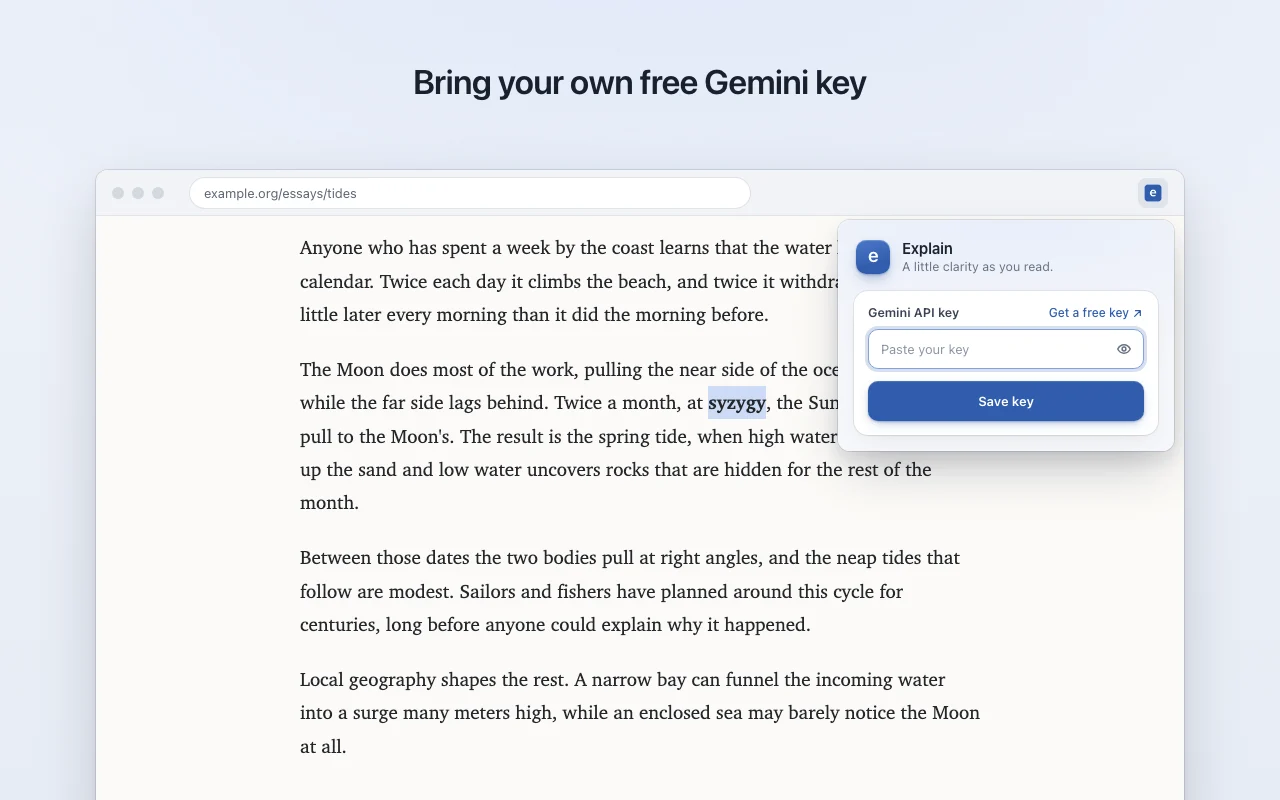
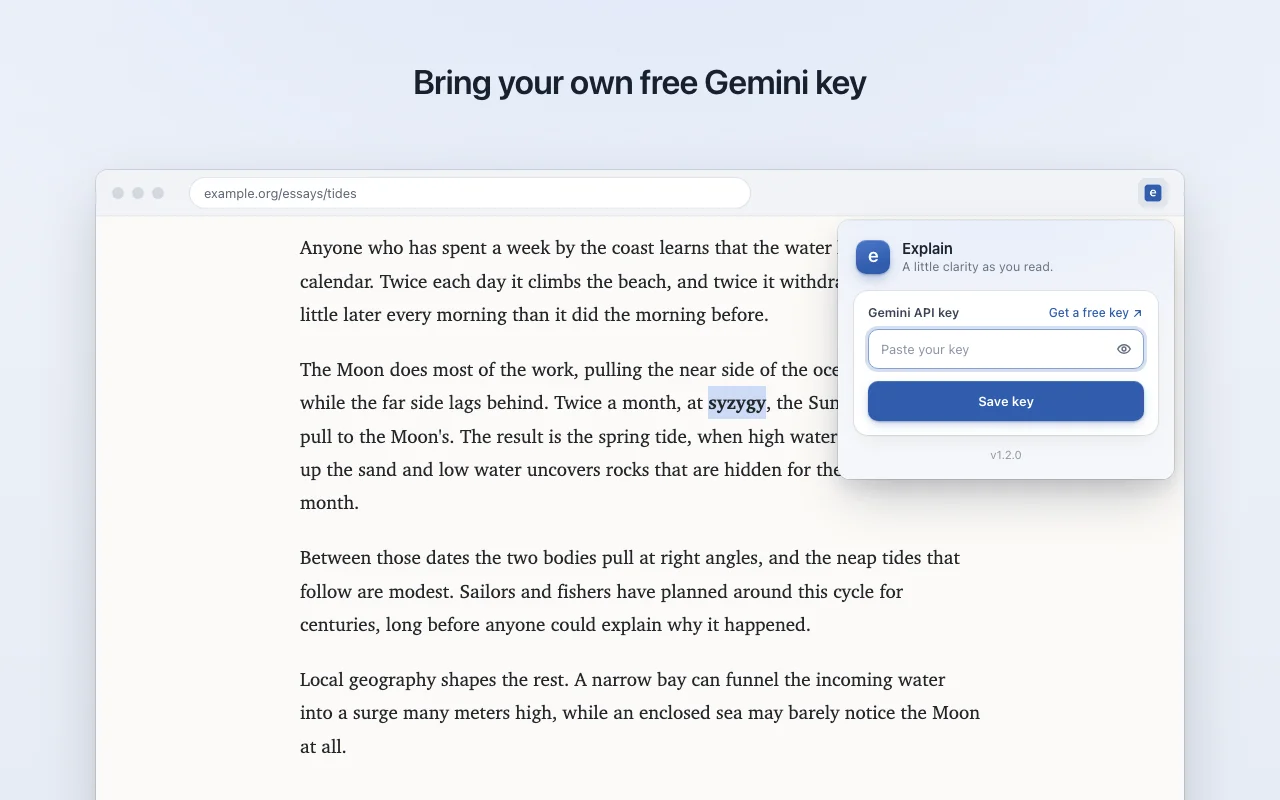
Popup: check GitHub releases for updates in unpacked installs; release 1.2.0
Ported from Babil: a 6-hour cached check of releases/latest, an update notice with Download zip, Reload Explain and What's new, and a version line with Check for updates. Only runs when installType is development, so store installs never call GitHub. CSP allows api.github.com; privacy, README, site and store notes updated.

Changed region(s): [[0.6562, 0.5625, 0.9375, 0.625]]

diff --git a/extension/popup.js b/extension/popup.js
@@ -10,6 +10,10 @@ const cancel = document.querySelector("#cancel");
 const status = document.querySelector("#status");
 const keyError = document.querySelector("#key-error");
 const toggleKey = document.querySelector("#toggle-key");
+const update = document.querySelector("#update");
+const checkUpdate = document.querySelector("#check-update");
+const manifest = api.runtime.getManifest();
+const RELEASES = "https://github.com/canmenzo/explain/releases";
 
 function showStatus(message, state = "") {
   status.textContent = message;
@@ -99,3 +103,56 @@ form.addEventListener("submit", async (event) => {
     form.removeAttribute("aria-busy");
   }
 });
+
+// Copies loaded from the GitHub zip never update on their own, so the popup checks GitHub releases.
+// Store installs update through the store and skip this.
+function newer(a, b) {
+  const [x, y] = [a, b].map((value) => value.split(".").map(Number));
+  for (let i = 0; i < 3; i++) if ((x[i] || 0) !== (y[i] || 0)) return (x[i] || 0) > (y[i] || 0);
+  return false;
+}
+
+async function findUpdate(force) {
+  let { release } = await api.storage.local.get("release");
+  if (force || !release || Date.now() - release.checked > 6 * 3600e3) {
+    const response = await fetch("https://api.github.com/repos/canmenzo/explain/releases/latest");
+    if (!response.ok) throw new Error(`GitHub ${response.status}`);
+    const latest = await response.json();
+    const zip = `explain-${manifest.browser_specific_settings ? "firefox" : "chrome"}.zip`;
+    release = {
+      checked: Date.now(),
+      version: latest.tag_name.replace(/^v/, ""),
+      zip: latest.assets.find((asset) => asset.name === zip)?.browser_download_url ?? latest.html_url,
+      notes: latest.html_url,
+    };
+    await api.storage.local.set({ release });
+  }
+  const available = newer(release.version, manifest.version);
+  update.hidden = !available;
+  if (available) {
+    const safe = (url) => (typeof url === "string" && url.startsWith("https://github.com/") ? url : RELEASES);
+    document.querySelector("#update-title").textContent = `Version ${release.version} is available`;
+    document.querySelector("#update-zip").href = safe(release.zip);
+    document.querySelector("#update-notes").href = safe(release.notes);
+  }
+  return available;
+}
+
+document.querySelector("#version").textContent = `v${manifest.version}`;
+document.querySelector("#update-reload").addEventListener("click", () => api.runtime.reload());
+
+checkUpdate.addEventListener("click", async (event) => {
+  event.preventDefault();
+  checkUpdate.textContent = "Checking…";
+  try {
+    checkUpdate.textContent = (await findUpdate(true)) ? "Update available" : "You're up to date";
+  } catch {
+    checkUpdate.textContent = "Could not check";
+  }
+});
+
+api.management?.getSelf?.().then((self) => {
+  if (self.installType !== "development") return;
+  document.querySelector("#update-check").hidden = false;
+  return findUpdate(false);
+}).catch(() => {});

diff --git a/docs/privacy.html b/docs/privacy.html
@@ -37,7 +37,7 @@
 <main id="main" class="doc">
 <p class="eyebrow">Privacy</p>
 <h1>Privacy policy</h1>
-<p class="meta">Effective October 22, 2026. This policy covers the Explain browser extension.</p>
+<p class="meta">Effective October 23, 2026. This policy covers the Explain browser extension.</p>
 
 <p>Explain has no servers of its own. It does not collect analytics, telemetry or usage data, and it does not sell or share your data with anyone.</p>
 
@@ -47,13 +47,16 @@
 <li>the text you selected (up to 12,000 characters);</li>
 <li>the nearby text from the paragraph, list item, heading or table cell that contains the selection (up to 5,000 characters);</li>
 <li>the page title (up to 300 characters);</li>
-<li>the name of the Gemini model Explain uses (Gemini 3.8 Flash);</li>
+<li>the name of the Gemini model Explain uses (Gemini 3.8 Flash, or Gemini 3.6 Flash for single words and short phrases);</li>
 <li>your Gemini API key, which authenticates the request.</li>
 </ul>
 <p>Explain does not send the page address, the page's HTML, or anything from pages where you have not chosen Explain.</p>
 
+<h2>Update checks</h2>
+<p>Copies installed from the GitHub zip, not from a browser store, ask GitHub (<code>api.github.com</code>) for the latest release when you open the popup, at most every six hours, or when you choose <strong>Check for updates</strong>. That request carries no selection, page data or key. Store installs update through the store and never make it.</p>
+
 <h2>What Explain stores</h2>
-<p>Your API key is kept in the browser's extension local storage (<code>chrome.storage.local</code>) on this device. It is not synced and is deleted when you remove Explain. Explain stores nothing else: selections and explanations are shown on the page and discarded.</p>
+<p>Your API key is kept in the browser's extension local storage (<code>chrome.storage.local</code>) on this device. It is not synced and is deleted when you remove Explain. Copies installed from the GitHub zip also keep the result of the last update check there (the latest version number, its download link and when it was checked). Selections and explanations are shown on the page and discarded.</p>
 
 <h2>Permissions</h2>
 <ul>
@@ -61,6 +64,7 @@
 <li><code>activeTab</code> and <code>scripting</code>: show the explanation card on the current tab, only after you choose Explain from that menu.</li>
 <li><code>storage</code>: keep your API key on this device.</li>
 <li>Access to <code>generativelanguage.googleapis.com</code>: send Explain requests to Google Gemini.</li>
+<li><code>api.github.com</code> (allowed in the extension's content security policy, not a permission): check for a new release in copies installed from the GitHub zip.</li>
 </ul>
 
 <h2>Google's terms</h2>

diff --git a/docs/index.html b/docs/index.html
@@ -111,6 +111,7 @@
 <li><strong>Load unpacked</strong><span>Click <strong>Load unpacked</strong> and choose the unzipped folder.</span></li>
 <li><strong>Add your key</strong><span>Click the Explain icon, then <strong>Get a free key</strong>. Paste it and click <strong>Save key</strong>.</span></li>
 </ol>
+<div class="note rv"><strong>Updating.</strong> The popup tells you when a new release is out. Download the new zip, unzip it over your Explain folder and click <strong>Reload Explain</strong>. Your key is kept.</div>
 <div class="note rv"><strong>Firefox 140+.</strong> Unzip <code>explain-firefox.zip</code>, open <code>about:debugging#/runtime/this-firefox</code>, click <strong>Load Temporary Add-on</strong> and pick <code>manifest.json</code>. Firefox removes it on restart.</div>
 
 </section>
@@ -123,7 +124,7 @@
 <details class="rv"><summary>Where is my key kept?</summary><p>In the extension's local storage in this browser. It is not synced, and removing Explain deletes it.</p></details>
 <details class="rv"><summary>What if I choose Explain before adding a key?</summary><p>The card asks for a key and the key popup opens where the browser allows it.</p></details>
 <details class="rv"><summary>Which browsers are supported?</summary><p>Chrome, and Firefox 140 or newer, on desktop.</p></details>
-<details class="rv"><summary>Which model writes the answers?</summary><p>Gemini 3.8 Flash, without Google Search.</p></details>
+<details class="rv"><summary>Which model writes the answers?</summary><p>Gemini 3.8 Flash for passages and Gemini 3.6 Flash for single words and short phrases, without Google Search.</p></details>
 <details class="rv"><summary>Can it read every page I visit?</summary><p>No. It only gets access to the current tab when you choose Explain.</p></details>
 <details class="rv"><summary>Is it in the Chrome Web Store?</summary><p>Not yet. Install it from the GitHub release for now.</p></details>
 </section>

diff --git a/extension/popup.css b/extension/popup.css
@@ -142,6 +142,32 @@ form[aria-busy="true"] .spinner { display: block; }
 .secondary { flex: 0 0 auto !important; padding: 0 16px; background: #fff; color: var(--ink-2); box-shadow: 0 0 0 1px rgba(15, 23, 42, .12); }
 .secondary:hover { background: #f4f6f9; }
 
+.update { margin-bottom: 10px; }
+.update + .panel { margin-top: 0; }
+.update .label-row { margin-bottom: 4px; }
+.update p { color: var(--muted); font-size: 12px; line-height: 16px; }
+.update-actions { display: flex; gap: 8px; margin-top: 12px; }
+.update-actions > * { flex: 1; height: 36px; border-radius: 10px; font-size: 12.5px; font-weight: 600; }
+.download {
+  display: inline-flex;
+  align-items: center;
+  justify-content: center;
+  background: var(--blue);
+  color: #fff;
+  text-decoration: none;
+  box-shadow: inset 0 1px 0 rgba(255, 255, 255, .14), 0 1px 2px rgba(23, 50, 104, .3), 0 4px 12px -4px rgba(49, 93, 173, .5);
+  transition: background-color 150ms var(--ease);
+}
+.download:hover { background: var(--blue-hover); }
+.download:focus-visible { box-shadow: 0 0 0 2px #fff, 0 0 0 4px rgba(49, 93, 173, .45); }
+.reload { background: #fff; color: var(--ink-2); box-shadow: 0 0 0 1px rgba(15, 23, 42, .12); }
+.reload:hover { background: #f4f6f9; }
+.reload:active:not(:disabled) { transform: scale(.98); }
+
+.version { margin: 12px 2px 0; color: var(--faint); font-size: 11.5px; line-height: 16px; text-align: center; }
+.version a { border-radius: 4px; color: inherit; text-decoration: none; }
+.version a:hover { color: var(--ink-2); text-decoration: underline; }
+
 #status:empty { display: none; }
 #status { margin: 10px 0 0; border-radius: 10px; padding: 8px 12px; background: var(--red-soft); color: var(--red); font-size: 12px; line-height: 16px; }
 /* Success is shown by the ready panel itself; the text is kept for screen readers. */

diff --git a/extension/popup.html b/extension/popup.html
@@ -16,6 +16,17 @@
           <p>A little clarity as you read.</p>
         </div>
       </header>
+      <section id="update" class="panel update" aria-labelledby="update-title" hidden>
+        <div class="label-row">
+          <h2 id="update-title"></h2>
+          <a id="update-notes" class="help" target="_blank" rel="noreferrer">What's new<svg viewBox="0 0 16 16" aria-hidden="true"><path d="M5.5 4.5h6v6M11.25 4.75 4.5 11.5"/></svg></a>
+        </div>
+        <p>Download the zip, unzip it over your Explain folder, then reload. Your key is kept.</p>
+        <div class="update-actions">
+          <a id="update-zip" class="download" target="_blank" rel="noreferrer">Download zip</a>
+          <button id="update-reload" class="reload" type="button">Reload Explain</button>
+        </div>
+      </section>
       <section id="ready" class="panel ready" aria-labelledby="ready-title" hidden>
         <div class="ready-head">
           <span class="check" aria-hidden="true"><svg viewBox="0 0 16 16"><path d="m4.5 8.25 2.25 2.25 4.75-5"/></svg></span>
@@ -45,6 +56,7 @@
         </div>
       </form>
       <p id="status" role="status" aria-live="polite"></p>
+      <p class="version"><span id="version"></span><span id="update-check" hidden> · <a href="#" id="check-update">Check for updates</a></span></p>
     </main>
   </body>
 </html>

diff --git a/tests/browser_test.py b/tests/browser_test.py
@@ -255,13 +255,19 @@ async def popup_fixture(browser_type):
             await route.fulfill(path=str(ROOT / "extension" / route.request.url.rsplit("/", 1)[-1]))
         await page.route("http://popup.test/*", serve)
         await page.add_init_script("""window.pending=[];window.chrome={storage:{local:{get:async()=>({}),set:async()=>{}}},
-          runtime:{sendMessage:message=>new Promise((resolve,reject)=>window.pending.push({message,resolve,reject}))}};""")
+          runtime:{getManifest:()=>({version:"1.1.0"}),reload:()=>{window.reloaded=true;},
+            sendMessage:message=>new Promise((resolve,reject)=>window.pending.push({message,resolve,reject}))},
+          management:{getSelf:async()=>({installType:"development"})}};""")
+        release = {"tag_name": "v1.1.0", "html_url": "https://github.com/canmenzo/explain/releases/tag/v1.1.0", "assets": []}
+        await page.route("https://api.github.com/repos/canmenzo/explain/releases/latest", lambda route: route.fulfill(json=release))
         await page.goto("http://popup.test/popup.html")
         form = page.locator("#key-form")
         ready = page.locator("#ready")
         await expect(page.locator("#api-key")).to_be_focused()
         await expect(form).to_be_visible()
         await expect(ready).to_be_hidden()
+        await expect(page.locator(".version")).to_have_text("v1.1.0 · Check for updates")
+        await expect(page.locator("#update")).to_be_hidden()
         await expect(page.get_by_role("link", name="Get a free key")).to_have_attribute("href", "https://aistudio.google.com/apikey")
         assert await page.locator("select, #model, .how, ol").count() == 0
         # Chrome caps popups at 600px; leave room for the validation message.
@@ -322,7 +328,26 @@ async def popup_fixture(browser_type):
         await page.get_by_role("button", name="Replace key").click()
         await page.get_by_role("button", name="Show API key").click()
         assert await page.evaluate("document.getAnimations().filter(animation => animation.playState === 'running').length") == 0
-        print(f"PASS {browser_type.name}: popup setup ({height:.0f}px), width, validation, save, ready state, replace, errors, reduced motion")
+
+        # A newer GitHub release shows the update notice with links to that release only.
+        release.update(tag_name="v1.2.0", html_url="https://github.com/canmenzo/explain/releases/tag/v1.2.0",
+                       assets=[{"name": "explain-chrome.zip", "browser_download_url": "https://github.com/canmenzo/explain/releases/download/v1.2.0/explain-chrome.zip"}])
+        await page.emulate_media(reduced_motion="no-preference")
+        await page.get_by_role("button", name="Cancel").click()
+        await page.get_by_role("link", name="Check for updates").click()
+        await expect(page.locator("#check-update")).to_have_text("Update available")
+        await expect(page.locator("#update-title")).to_have_text("Version 1.2.0 is available")
+        await expect(page.get_by_role("link", name="Download zip")).to_have_attribute("href", release["assets"][0]["browser_download_url"])
+        await expect(page.get_by_role("link", name="What's new")).to_have_attribute("href", release["html_url"])
+        height = await page.locator("main").evaluate("element => element.getBoundingClientRect().height")
+        assert height <= 576, height
+        await evidence(page, f"{browser_type.name}-popup-update.png", full_page=True)
+        await page.get_by_role("button", name="Reload Explain").click()
+        assert await page.evaluate("window.reloaded")
+        release.update(html_url="https://evil.test/", assets=[{"name": "explain-chrome.zip", "browser_download_url": "https://evil.test/x.zip"}])
+        await page.get_by_role("link", name="Update available").click()
+        await expect(page.get_by_role("link", name="Download zip")).to_have_attribute("href", "https://github.com/canmenzo/explain/releases")
+        print(f"PASS {browser_type.name}: popup setup ({height:.0f}px), width, validation, save, ready state, replace, errors, reduced motion, update check")
     finally:
         await browser.close()
 
@@ -343,7 +368,8 @@ async def chromium_extension_smoke(playwright):
             await popup.locator("#api-key").fill("saved-test-key")
             await popup.get_by_role("button", name="Save key").click()
             await expect(popup.locator("#ready")).to_be_visible()
-            assert await popup.evaluate("chrome.storage.local.get(null)") == {"geminiKey": "saved-test-key"}
+            assert (await popup.evaluate("chrome.storage.local.get('geminiKey')")) == {"geminiKey": "saved-test-key"}
+            await expect(popup.locator("#update-check")).to_be_visible()
             stream = """selection => new Promise(resolve => {
               const port = chrome.runtime.connect({name: 'explain'});
               const received = [];

diff --git a/store/make_screenshots.py b/store/make_screenshots.py
@@ -85,6 +85,7 @@ STUB = """(() => {
     storage: {local: {get: async () => ({})}},
     runtime: {
       onMessage: {addListener(fn) { window.menu = selection => fn({type: 'explain', selection}); }},
+      getManifest: () => ({version: '1.2.0'}),
       sendMessage: () => new Promise(() => {}),
       connect() {
         const port = {listeners: [], postMessage() {}, disconnect() {},

diff --git a/PRIVACY.md b/PRIVACY.md
@@ -1,6 +1,6 @@
 # Privacy Policy
 
-Effective October 22, 2026. This policy covers the Explain browser extension.
+Effective October 23, 2026. This policy covers the Explain browser extension.
 
 Explain has no servers of its own. It does not collect analytics, telemetry, or usage data, and it does not sell or share your data with anyone.
 
@@ -15,9 +15,13 @@ Explain sends data only when you select text, right-click, and choose **Explain*
 
 Explain does not send the page address, the page's HTML, or anything from pages where you have not chosen **Explain**.
 
+### Update checks
+
+Copies installed from the GitHub zip, not from a browser store, ask GitHub (`api.github.com`) for the latest release when you open the popup, at most every six hours, or when you choose **Check for updates**. That request carries no selection, page data, or key. Store installs update through the store and never make it.
+
 ## What Explain stores
 
-Your API key is the only value Explain stores. It is kept in the browser's extension local storage (`chrome.storage.local`) on this device, is not synced, and is deleted when you remove Explain. Selections and explanations are shown on the page and discarded.
+Your API key is kept in the browser's extension local storage (`chrome.storage.local`) on this device, is not synced, and is deleted when you remove Explain. Copies installed from the GitHub zip also keep the result of the last update check there (the latest version number, its download link, and when it was checked). Selections and explanations are shown on the page and discarded.
 
 ## Permissions
 
@@ -25,6 +29,7 @@ Your API key is the only value Explain stores. It is kept in the browser's exten
 - `activeTab` and `scripting`: show the Explain card on the current tab only after you choose **Explain** from that menu.
 - `storage`: keep your API key on this device.
 - Access to `generativelanguage.googleapis.com`: send Explain requests to Google Gemini.
+- `api.github.com` (allowed in the extension's content security policy, not a permission): check for a new release in copies installed from the GitHub zip.
 
 ## Google's terms
 

diff --git a/store/listing.md b/store/listing.md
@@ -110,7 +110,7 @@ Required to call the Google Gemini API (generativelanguage.googleapis.com, model
 Answer: **No, I am not using remote code.**
 
 ```
-All JavaScript, HTML, CSS, and the WebAssembly module (core.wasm, compiled from the Rust source in the repository) are bundled in the package and loaded from the extension itself via chrome.runtime.getURL. The 'wasm-unsafe-eval' CSP keyword is present only so the bundled core.wasm can be instantiated. The extension does not load scripts or wasm from any server and does not use eval. The only network request is a JSON call to the Gemini API, whose plain text response is displayed, never executed.
+All JavaScript, HTML, CSS, and the WebAssembly module (core.wasm, compiled from the Rust source in the repository) are bundled in the package and loaded from the extension itself via chrome.runtime.getURL. The 'wasm-unsafe-eval' CSP keyword is present only so the bundled core.wasm can be instantiated. The extension does not load scripts or wasm from any server and does not use eval. The only network request is a JSON call to the Gemini API, whose plain text response is displayed, never executed. The CSP also allows api.github.com: copies loaded unpacked from the GitHub release zip (installType "development") check it for a newer release version. Installs from the Chrome Web Store never make that request.
 ```
 
 ### Data usage

diff --git a/README.md b/README.md
@@ -16,6 +16,10 @@
 
 Firefox 140+: load `manifest.json` from `explain-firefox.zip` in `about:debugging#/runtime/this-firefox`.
 
+## Update
+
+Copies installed from the zip check GitHub for a new release when you open the popup. When one is out, download the new zip, unzip it over your Explain folder and click **Reload Explain** in the notice. Your key is kept.
+
 ## Privacy
 
 Only the selection, the paragraph around it and the page title go to Google's Gemini API, straight from your browser. No servers, no account, no analytics. Your key is saved in this browser only, never synced. On Google's free tier, Google may use requests to improve its products.
